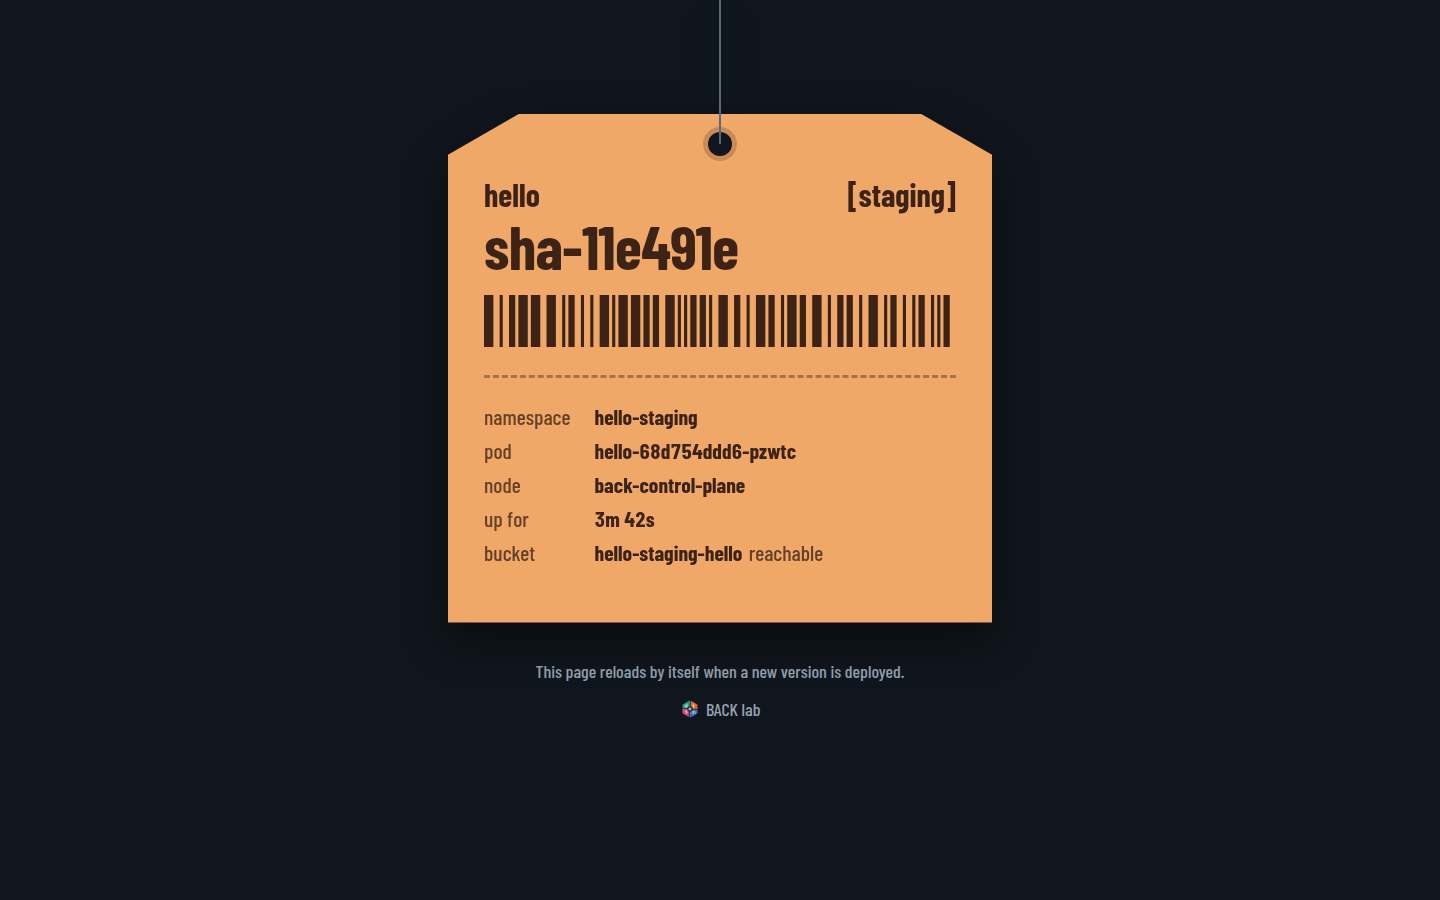
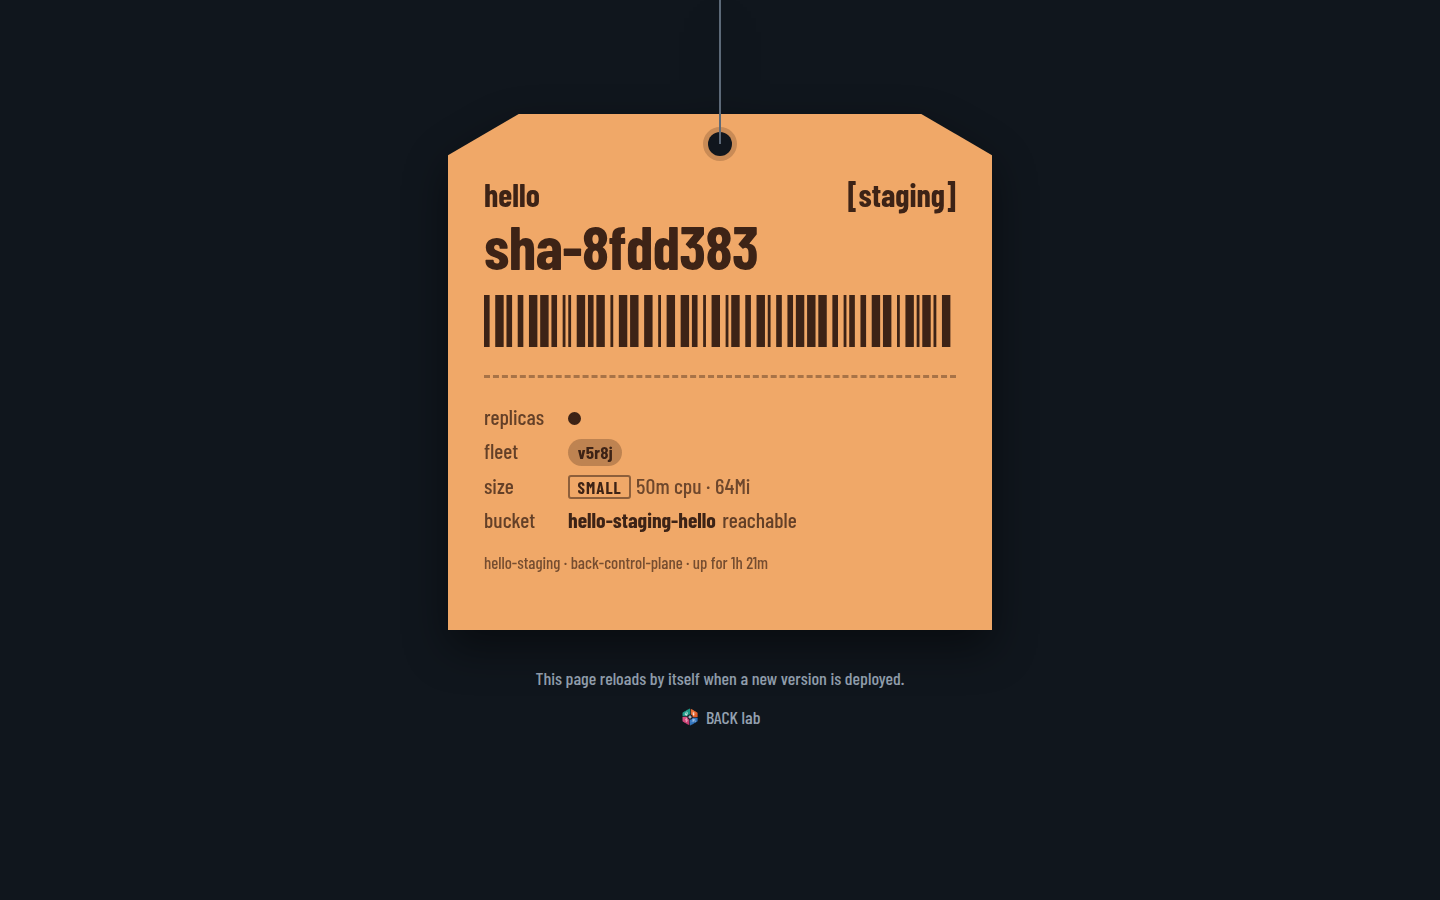
docs: refresh the hello screenshots with the fleet and the spec

Changed region(s): [[0.3438, 0.4356, 0.5625, 0.6533], [0.3125, 0.2489, 0.6562, 0.4044], [0.3125, 0.6844, 0.6875, 0.8089]]

diff --git a/README.md b/README.md
@@ -58,7 +58,7 @@ Two perspectives on the same cluster, each with an identity to see it through: `
 [hello](https://github.com/hvpaiva/back-hello) is a small service that displays its own version. Its repository holds the code and a short description of what it needs from the platform: name, team, port, size, whether it's public, and a bucket. A push to its `staging` branch builds an image and deploys it to staging. A pull request from `staging` to `main` promotes that same image to production. Pull requests are checked against the platform's rules before the merge. The developer never touches the cluster, never writes a Kubernetes manifest or a Dockerfile, and never creates the bucket: the platform does, and hands the service its details. As `dev`, Argo CD shows only the services, and kubectl reads the team's namespaces without being able to change them.
 
 <p align="center">
-  <img src="docs/images/hello-staging.png" alt="hello in staging: an orange hang tag showing version sha-11e491e" width="45%">
+  <img src="docs/images/hello-staging.png" alt="hello in staging: an orange hang tag showing version sha-8fdd383" width="45%">
   <img src="docs/images/hello-production.png" alt="hello in production: a green hang tag showing the same version" width="45%">
 </p>
 
